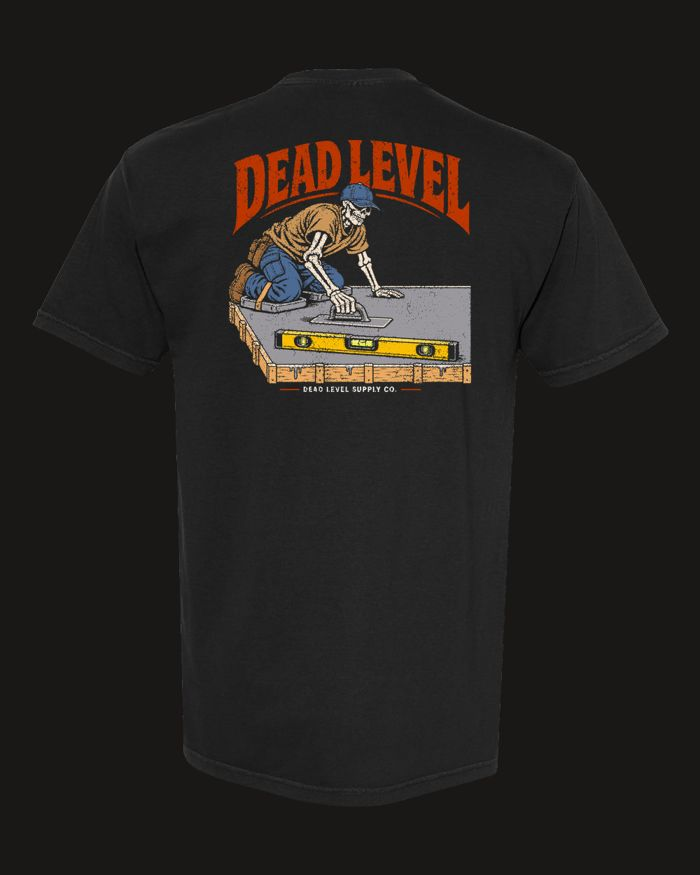
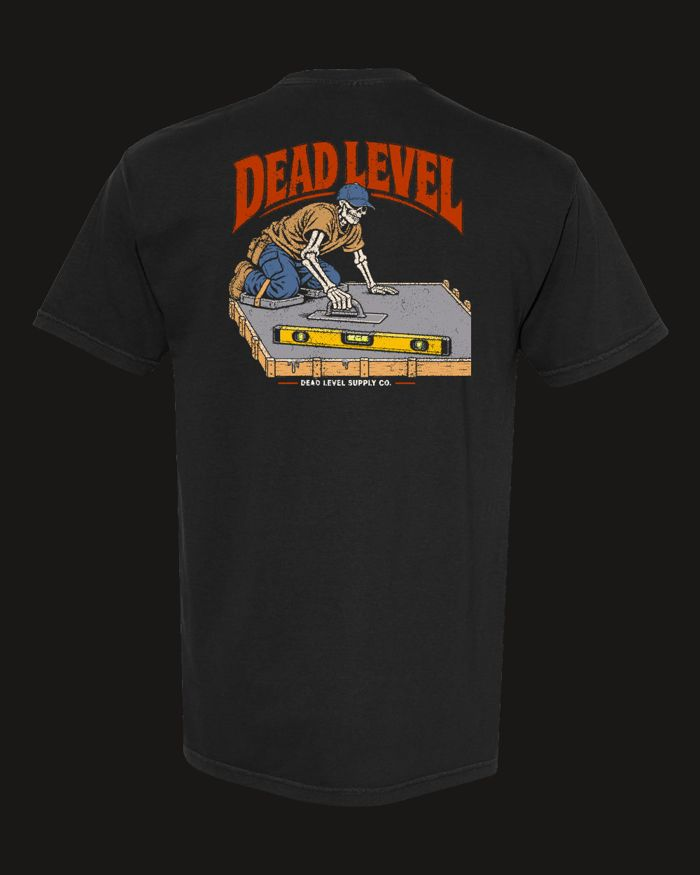
Drop 01: add 7 aviation shirts, Dead Level new slab, 24 shirts

Changed region(s): [[0.3, 0.1543, 0.69, 0.4629]]

diff --git a/index.html b/index.html
@@ -94,8 +94,8 @@ footer .wrap { padding-block: 22px 40px; font-size: 13px; color: var(--ash); dis
       <h1>Trade <span>Back</span> Prints</h1>
     </div>
     <div class="stats">
-      <div class="stat"><b>17</b><small>Shirts</small></div>
-      <div class="stat"><b>9</b><small>Trades</small></div>
+      <div class="stat"><b>24</b><small>Shirts</small></div>
+      <div class="stat"><b>10</b><small>Trades</small></div>
       <div class="stat"><b>2</b><small>Humor lanes</small></div>
     </div>
   </div>
@@ -104,14 +104,14 @@ footer .wrap { padding-block: 22px 40px; font-size: 13px; color: var(--ash); dis
 <main class="wrap">
   <section class="brief">
     <div>
-      <p>Seventeen back-print tees, one trade per shirt. Most trades get two takes: a <b>dark</b> one (skeleton humor built on a real trade term) and a <b>dirty</b> one (a double meaning the crew will get). All of them use the same friendly skeleton, flat vintage colors and a worn, distressed print.</p>
+      <p>Twenty-four back-print tees, one trade per shirt. Most trades get two takes: a <b>dark</b> one (skeleton humor built on a real trade term) and a <b>dirty</b> one (a double meaning the crew will get). All of them use the same friendly skeleton, flat vintage colors and a worn, distressed print.</p>
       <p class="muted">Trades picked from what sells: electrical, mechanics and welders lead the trade-tee best-seller lists. HVAC is a proven seller and a Florida year-rounder. Landscape and hardscape barely show up anywhere, which makes them an open lane, and that's who sees your ads.</p>
       <p class="muted">Tap <b>Show art</b> on any card to see the flat print file.</p>
     </div>
     <div class="spec">
       <img src="img/front.jpg" alt="Black tee front with the DL monogram on the left chest">
       <dl>
-        <dt>Front</dt><dd>DL monogram, left chest, 3.5″ (same on all 17)</dd>
+        <dt>Front</dt><dd>DL monogram, left chest, 3.5″ (same on all 24)</dd>
         <dt>Back</dt><dd>Trade print, 11–12″ wide</dd>
         <dt>Shirt</dt><dd>Black. Mockups show a Comfort Colors 1717; blank not final</dd>
         <dt>Print</dt><dd>DTF, printed in-house in Florida</dd>
@@ -122,7 +122,7 @@ footer .wrap { padding-block: 22px 40px; font-size: 13px; color: var(--ash); dis
 
   <h2>The Lineup</h2>
   <div class="filters" role="group" aria-label="Filter by trade">
-    <button type="button" data-f="all" aria-pressed="true">All 17</button>
+    <button type="button" data-f="all" aria-pressed="true">All 24</button>
     <button type="button" data-f="electrician" aria-pressed="false">Electrician</button>
     <button type="button" data-f="mechanic" aria-pressed="false">Mechanic</button>
     <button type="button" data-f="welder" aria-pressed="false">Welder</button>
@@ -131,6 +131,7 @@ footer .wrap { padding-block: 22px 40px; font-size: 13px; color: var(--ash); dis
     <button type="button" data-f="concrete" aria-pressed="false">Concrete</button>
     <button type="button" data-f="tree" aria-pressed="false">Tree Service</button>
     <button type="button" data-f="plumber" aria-pressed="false">Plumber</button>
+    <button type="button" data-f="aviation" aria-pressed="false">Aviation</button>
   </div>
   <div class="grid" id="grid"></div>
 </main>
@@ -161,13 +162,22 @@ const shirts = [
     who: "HVAC techs, especially in Florida and the South.", size: "12 × 13.0″" },
   { id: "dead-level", title: "Dead Level", trade: "concrete", tradeLabel: "Concrete", lane: "dark",
     joke: "Dead level is the builder's word for perfectly flat. He troweled the slab dead level, bubble dead center, and he's dead too. It's the brand name, so this is the signature shirt.",
-    who: "Concrete finishers and flatwork crews. Doubles as the brand tee for anyone.", size: "12 × 12.5″" },
+    who: "Concrete finishers and flatwork crews. Doubles as the brand tee for anyone.", size: "12 × 12.2″" },
   { id: "widowmaker", title: "Widowmaker", trade: "tree", tradeLabel: "Tree Service", lane: "dark",
     joke: "A widowmaker is a dead limb hanging overhead, the thing that kills tree guys. He's tied in and cutting a huge one right over his head, still grinning.",
     who: "Arborists and tree service climbers.", size: "12 × 12.5″" },
   { id: "hot-on-the-left", title: "Hot on the Left, Cold on the Right", trade: "plumber", tradeLabel: "Plumber", lane: "dark",
     joke: "Rule one of plumbing, the first thing every apprentice learns. Him sweating a copper joint like a pro, glasses on.",
     who: "Plumbers and pipefitters. The old 'rules of plumbing' joke every crew knows.", size: "12 × 13.0″" },
+  { id: "dead-stick-work-stand", title: "Dead Stick", trade: "aviation", tradeLabel: "Aviation", lane: "dark",
+    joke: "Dead stick is flying with the engine out. Prop stopped, smoke coming off it, and he's up on the work stand shrugging.",
+    who: "A&P mechanics and anyone who's worked on small planes.", size: "12 × 13.2″" },
+  { id: "dead-stick-cornfield", title: "Dead Stick", trade: "aviation", tradeLabel: "Aviation", lane: "dark",
+    joke: "Same term, later in the story. It came down in the corn, and he got called out to the field to fix it.",
+    who: "A&P mechanics and small-plane guys. Run it against the work stand version and let the ads pick the winner.", size: "12 × 12.1″" },
+  { id: "hangar-king", title: "Hangar King", trade: "aviation", tradeLabel: "Aviation", lane: "dark",
+    joke: "Boots up on the toolbox, shop chair for a throne, torque wrench for a scepter. It's his hangar.",
+    who: "Aircraft mechanics, especially the guy who's run the shop forever.", size: "12 × 12.1″" },
   { id: "fill-your-gap", title: "I'll Fill Your Gap", trade: "welder", tradeLabel: "Welder", lane: "dirty",
     joke: "Welding fills the gap between two plates. He'll fill yours too, with a wink.",
     who: "Welders. Pairs with Don't Look at the Light.", size: "11 × 14.1″" },
@@ -195,6 +205,18 @@ const shirts = [
   { id: "ive-seen-some-shit", title: "I've Seen Some Shit", trade: "plumber", tradeLabel: "Plumber", lane: "dirty",
     joke: "A plumber has, literally. Crawlspace veteran on a bucket, coffee in hand, nothing left that can surprise him.",
     who: "Plumbers, drain and sewer guys, anyone who's crawled under a house.", size: "12 × 12.3″" },
+  { id: "nice-rack-thumbs-up", title: "Nice Rack", trade: "aviation", tradeLabel: "Aviation", lane: "dirty",
+    joke: "The avionics rack is the shelf of electronics boxes in a plane. Thumbs up and a wink, and he means the rack.",
+    who: "Avionics techs. Everyone else gets the other joke.", size: "12 × 12.5″" },
+  { id: "nice-rack-crouched", title: "Nice Rack", trade: "aviation", tradeLabel: "Aviation", lane: "dirty",
+    joke: "Same joke, no wink. He's down in the bay with a hand on the rack, and the title does the work.",
+    who: "Avionics techs. Run it against the thumbs up version and let the ads pick the winner.", size: "12 × 12.4″" },
+  { id: "hangar-queen-ladder", title: "Hangar Queen", trade: "aviation", tradeLabel: "Aviation", lane: "dirty",
+    joke: "A hangar queen is the plane that never leaves maintenance. Here she runs the place, and the skeleton on the ladder forgot what he was doing.",
+    who: "Aircraft mechanics. Old nose-art pin-up style, so warbird guys should like it too.", size: "12 × 11.8″" },
+  { id: "hangar-queen-wing", title: "Hangar Queen", trade: "aviation", tradeLabel: "Aviation", lane: "dirty",
+    joke: "Same term, different view. She's up on the wing, and he's rolled out on the creeper looking up.",
+    who: "Aircraft mechanics and warbird guys. Run it against the ladder version and let the ads pick the winner.", size: "12 × 11.8″" },
 ];
 
 const grid = document.getElementById("grid");
